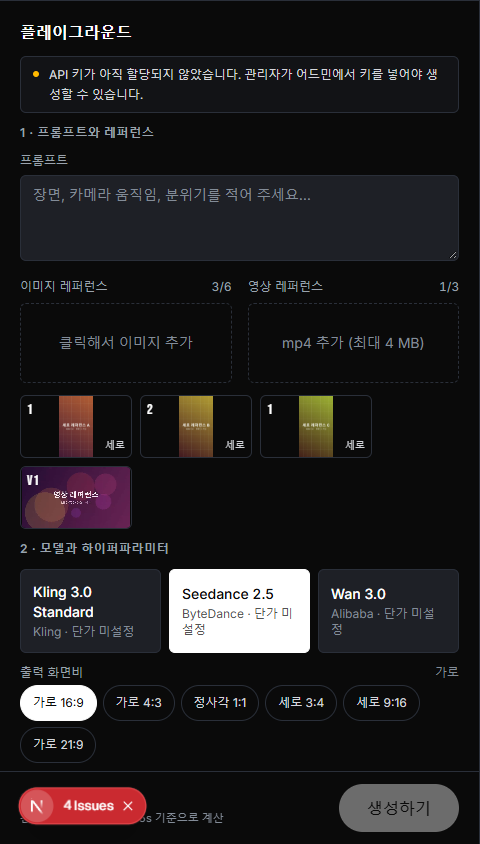
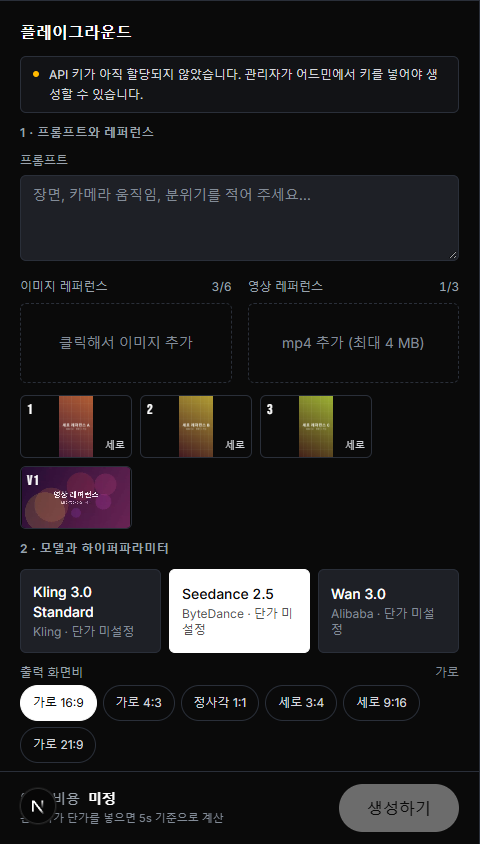
[수정] 레퍼런스 항목을 URL이 아닌 고유 id로 식별
왜: 같은 URL이 두 번 들어오면 번호가 겹치고 제거 시 둘 다 지워졌다
무엇:
- Playground.tsx: Ref에 crypto.randomUUID() id 추가, 번호·key·제거를 id 기준으로
검증: npx tsc --noEmit 오류 없음, 업로드 스텁이 중복 URL을 돌려줘도 이미지 1·2·3, 영상 V1로 번호 매겨짐 확인

Changed region(s): [[0.0312, 0.9242, 0.3125, 0.9858]]

diff --git a/src/components/Playground.tsx b/src/components/Playground.tsx
@@ -10,7 +10,7 @@ import { Button, ErrorText, Field, Input, Select, Textarea } from "@/components/
 import { StatusBadge } from "@/components/StatusBadge";
 
 type ModelWithPrice = ModelSpec & { pricePerSecUsd: number };
-type Ref = { url: string; name: string; kind: "image" | "video"; local?: string; w?: number; h?: number };
+type Ref = { id: string; url: string; name: string; kind: "image" | "video"; local?: string; w?: number; h?: number };
 
 const ASPECT_LABEL: Record<string, string> = {
   "16:9": "가로 16:9",
@@ -346,7 +346,7 @@ export function Playground({ models, hasApiKey, largeUploads, galleryCount }: { 
       for (const f of picked) {
         const url = await uploadFile(f, largeUploads);
         const size = kind === "image" ? await readImageSize(f) : null;
-        setRefs((r) => [...r, { url, name: f.name, kind, local: URL.createObjectURL(f), w: size?.w, h: size?.h }]);
+        setRefs((r) => [...r, { id: crypto.randomUUID(), url, name: f.name, kind, local: URL.createObjectURL(f), w: size?.w, h: size?.h }]);
       }
     } catch (e) {
       setError(e instanceof Error ? e.message : String(e));
@@ -515,10 +515,10 @@ export function Playground({ models, hasApiKey, largeUploads, galleryCount }: { 
             {refs.length > 0 && (
               <ul className="flex flex-wrap gap-2">
                 {refs.map((r) => {
-                  const i = (r.kind === "image" ? images : videos).findIndex((x) => x.url === r.url);
+                  const i = (r.kind === "image" ? images : videos).findIndex((x) => x.id === r.id);
                   const tag = r.kind === "image" ? String(i + 1) : `V${i + 1}`;
                   return (
-                  <li key={r.url} className="group relative aspect-video w-28 overflow-hidden rounded-md border border-border bg-background">
+                  <li key={r.id} className="group relative aspect-video w-28 overflow-hidden rounded-md border border-border bg-background">
                     {r.kind === "image" ? (
                       // eslint-disable-next-line @next/next/no-img-element
                       <img src={r.local ?? r.url} alt={r.name} className="h-full w-full object-contain" />
@@ -527,7 +527,7 @@ export function Playground({ models, hasApiKey, largeUploads, galleryCount }: { 
                     )}
                     <span aria-hidden className="font-display absolute left-1.5 top-1 text-[14px] text-foreground drop-shadow">{tag}</span>
                     {r.w && r.h && <span aria-hidden className="absolute bottom-1 right-1.5 text-[10px] tabular-nums text-foreground-2 drop-shadow">{orientation(r.w, r.h)}</span>}
-                    <button type="button" aria-label={`${r.kind === "image" ? "이미지" : "영상"} 레퍼런스 ${tag} ${r.name} 제거`} onClick={() => setRefs((list) => list.filter((x) => x.url !== r.url))} className="absolute inset-x-0 bottom-0 min-h-7 bg-background/80 text-[11px] text-rose-300 opacity-0 transition group-hover:opacity-100 focus-visible:opacity-100 pointer-coarse:opacity-100">
+                    <button type="button" aria-label={`${r.kind === "image" ? "이미지" : "영상"} 레퍼런스 ${tag} ${r.name} 제거`} onClick={() => setRefs((list) => list.filter((x) => x.id !== r.id))} className="absolute inset-x-0 bottom-0 min-h-7 bg-background/80 text-[11px] text-rose-300 opacity-0 transition group-hover:opacity-100 focus-visible:opacity-100 pointer-coarse:opacity-100">
                       제거
                     </button>
                   </li>
